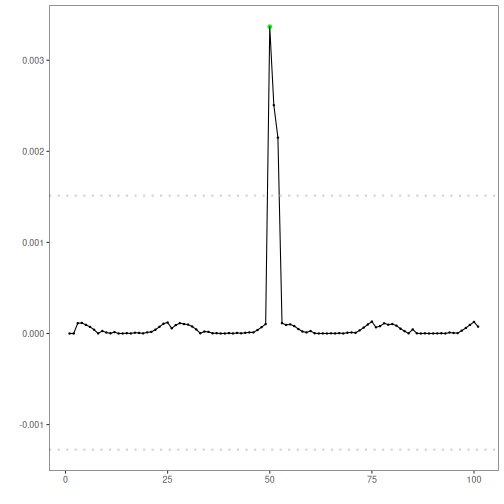
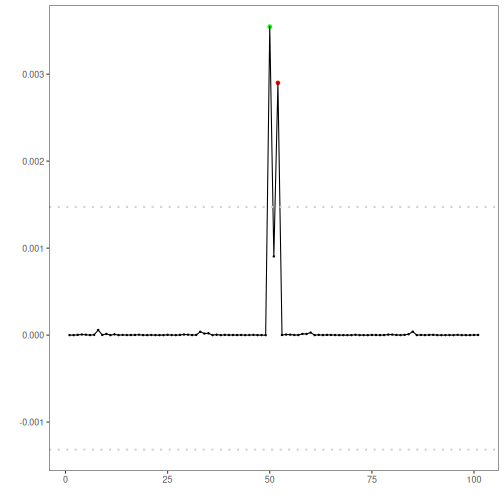
update

diff --git a/anomalies/han_autoenc_ed.md b/anomalies/han_autoenc_ed.md
@@ -68,6 +68,7 @@ model <- han_autoencoder(3, 2, autoenc_ed, num_epochs = 1500)
 ```
 ##   idx event    type
 ## 1  50  TRUE anomaly
+## 2  52  TRUE anomaly
 ```
 
 
@@ -80,8 +81,8 @@ model <- han_autoencoder(3, 2, autoenc_ed, num_epochs = 1500)
 ```
 ##           event      
 ## detection TRUE  FALSE
-## TRUE      1     0    
-## FALSE     0     100
+## TRUE      1     1    
+## FALSE     0     99
 ```
 
 

diff --git a/anomalies/han_autoenc_denoise_ed.md b/anomalies/han_autoenc_denoise_ed.md
@@ -67,7 +67,9 @@ har_plot(harbinger(), dataset$serie)
 
 ```
 ##   idx event    type
-## 1  61  TRUE anomaly
+## 1  27  TRUE anomaly
+## 2  51  TRUE anomaly
+## 3  77  TRUE anomaly
 ```
 
 
@@ -80,8 +82,8 @@ har_plot(harbinger(), dataset$serie)
 ```
 ##           event      
 ## detection TRUE  FALSE
-## TRUE      0     1    
-## FALSE     1     99
+## TRUE      0     3    
+## FALSE     1     97
 ```
 
 

diff --git a/anomalies/han_autoenc_variational_ed.md b/anomalies/han_autoenc_variational_ed.md
@@ -67,8 +67,8 @@ har_plot(harbinger(), dataset$serie)
 
 ```
 ##   idx event    type
-## 1  58  TRUE anomaly
-## 2  86  TRUE anomaly
+## 1  50  TRUE anomaly
+## 2  83  TRUE anomaly
 ```
 
 
@@ -81,8 +81,8 @@ har_plot(harbinger(), dataset$serie)
 ```
 ##           event      
 ## detection TRUE  FALSE
-## TRUE      0     2    
-## FALSE     1     98
+## TRUE      1     1    
+## FALSE     0     99
 ```
 
 

diff --git a/anomalies/hanr_ensemble_fuzzy.md b/anomalies/hanr_ensemble_fuzzy.md
@@ -66,8 +66,8 @@ har_plot(harbinger(), dataset$serie)
 ```
 
 ```
-## [1] idx   event type 
-## <0 rows> (or 0-length row.names)
+##   idx event    type
+## 1  50  TRUE anomaly
 ```
 
 
@@ -80,8 +80,8 @@ har_plot(harbinger(), dataset$serie)
 ```
 ##           event      
 ## detection TRUE  FALSE
-## TRUE      0     0    
-## FALSE     1     100
+## TRUE      1     0    
+## FALSE     0     100
 ```
 
 

diff --git a/anomalies/hanr_fft_binseg_cusum.md b/anomalies/hanr_fft_binseg_cusum.md
@@ -67,7 +67,7 @@ har_plot(harbinger(), dataset$serie)
 
 ```
 ##   idx event    type
-## 1  49  TRUE anomaly
+## 1  50  TRUE anomaly
 ```
 
 
@@ -80,8 +80,8 @@ har_plot(harbinger(), dataset$serie)
 ```
 ##           event      
 ## detection TRUE  FALSE
-## TRUE      0     1    
-## FALSE     1     99
+## TRUE      1     0    
+## FALSE     0     100
 ```
 
 

diff --git a/anomalies/hanr_garch.md b/anomalies/hanr_garch.md
@@ -67,7 +67,7 @@ har_plot(harbinger(), dataset$serie)
 
 ```
 ##   idx event    type
-## 1  50  TRUE anomaly
+## 1  51  TRUE anomaly
 ```
 
 
@@ -80,8 +80,8 @@ har_plot(harbinger(), dataset$serie)
 ```
 ##           event      
 ## detection TRUE  FALSE
-## TRUE      1     0    
-## FALSE     0     100
+## TRUE      0     1    
+## FALSE     1     99
 ```
 
 

diff --git a/motifs/hmo_mp_stomp.md b/motifs/hmo_mp_stomp.md
@@ -60,7 +60,7 @@ har_plot(harbinger(), dataset$serie)
 ```
 
 ```
-## Finished in 0.07 secs
+## Finished in 0.01 secs
 ```
 
 
